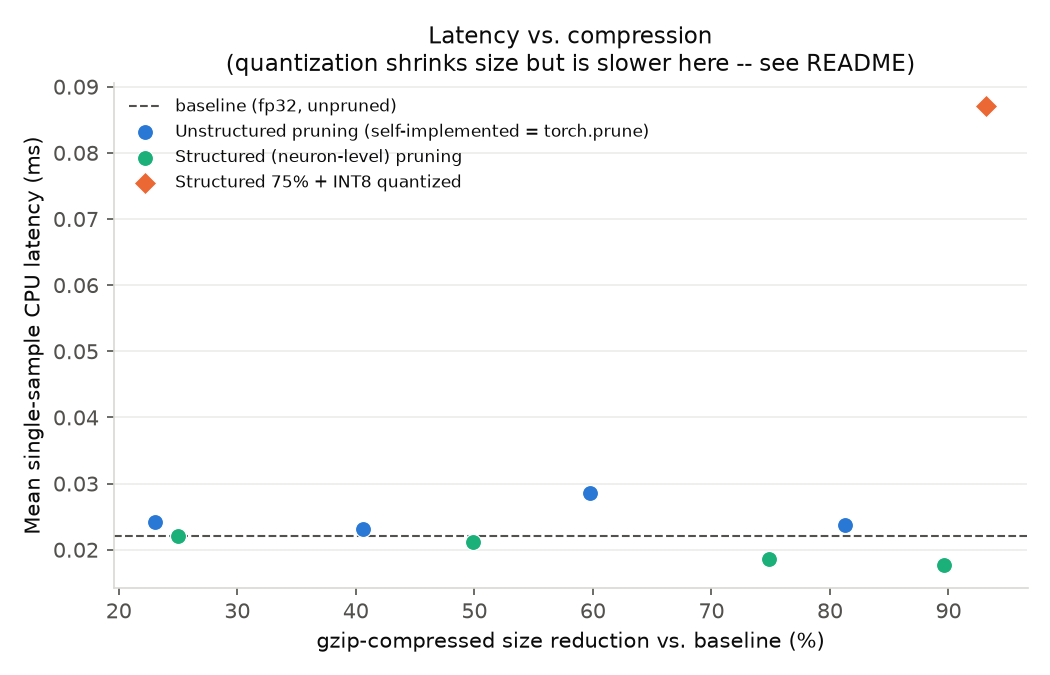
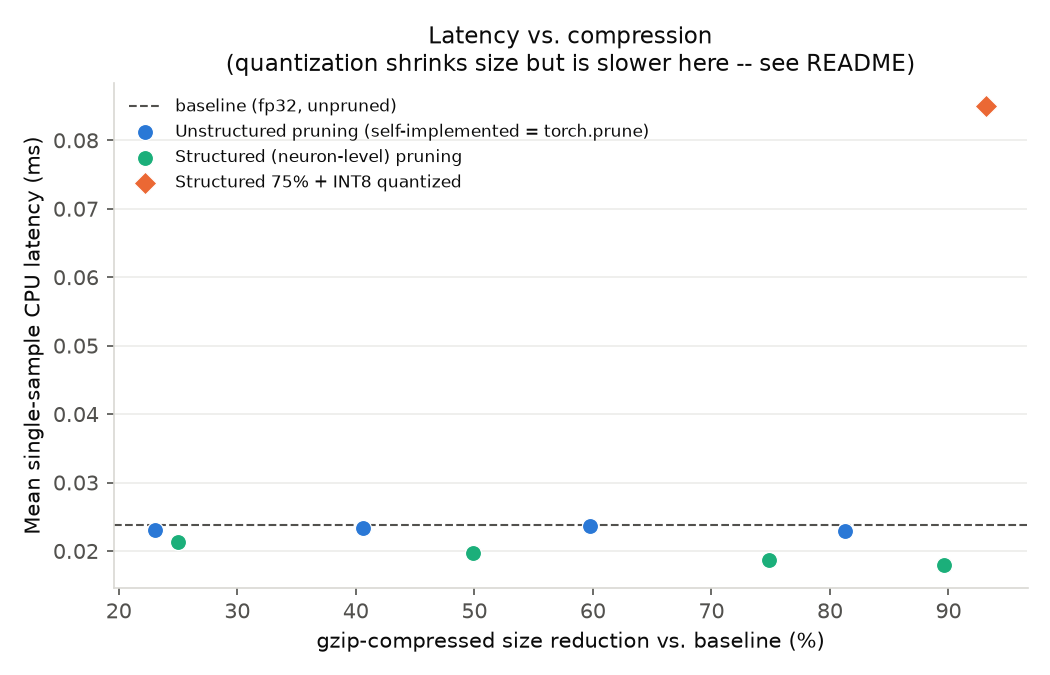
update changes

diff --git a/api/main.py b/api/main.py
@@ -12,9 +12,32 @@ reloading it on every call would make this unusably slow. Both come from
 the shared model/clip_features.py and model/classifier_architecture.py
 modules used at training time, so a live request produces embeddings in
 exactly the same space the classifier was trained on.
+
+Which classifier checkpoint gets served is configurable via env vars, so
+this same API can serve either the original trained head (the default,
+unchanged behavior) or one of the pruned/quantized checkpoints from the
+compression/ study:
+
+  CLASSIFIER_CHECKPOINT  - path to the checkpoint file
+                           (default: model/classifier_head.pt)
+  CLASSIFIER_HIDDEN_DIM  - hidden_dim to build the head with, only used as
+                           a fallback for a PLAIN state_dict checkpoint
+                           (default: 128, matching the original head)
+  CLASSIFIER_QUANTIZED   - "true"/"false", only used as a fallback for a
+                           plain state_dict (default: false)
+  CLASSIFIER_VERSION_TAG - model_version tag prefix (default: joint_v2)
+
+A structured-pruning or quantized checkpoint from compression/ is saved as
+a self-describing {"state_dict", "hidden_dim", "quantized"} dict (see
+compression/common.py's load_checkpoint, which this mirrors), so for those
+CLASSIFIER_HIDDEN_DIM/CLASSIFIER_QUANTIZED are read automatically from the
+file itself and don't need to be set correctly by hand -- avoiding exactly
+on the v2-agentic-eval branch already taught this project to worry about.
 """
 import io
+import os
 from contextlib import asynccontextmanager
+from pathlib import Path
 
 import torch
 from fastapi import FastAPI, File, Form, UploadFile, HTTPException
@@ -28,7 +51,53 @@ from model.clip_features import load_clip_model, embed_batch, build_joint_featur
 from model.classifier_architecture import LABELS, MLPHead, HIDDEN_DIM, DROPOUT
 from model.model_version import get_model_version
 
+CLASSIFIER_CHECKPOINT = os.environ.get("CLASSIFIER_CHECKPOINT", "model/classifier_head.pt")
+CLASSIFIER_HIDDEN_DIM_FALLBACK = int(os.environ.get("CLASSIFIER_HIDDEN_DIM", str(HIDDEN_DIM)))
+CLASSIFIER_QUANTIZED_FALLBACK = os.environ.get("CLASSIFIER_QUANTIZED", "false").lower() == "true"
+CLASSIFIER_VERSION_TAG = os.environ.get("CLASSIFIER_VERSION_TAG", "joint_v2")
+
 ml_state: dict = {}
+
+
+def _pick_quantized_engine(preferred: str | None = None) -> str:
+    supported = torch.backends.quantized.supported_engines
+    for candidate in ([preferred] if preferred else []) + ["fbgemm", "qnnpack"]:
+        if candidate in supported:
+            return candidate
+    raise RuntimeError(f"no usable quantized engine found; supported={supported}")
+
+
+def load_classifier(checkpoint_path: str) -> torch.nn.Module:
+    """Builds and loads the classifier head for CLASSIFIER_CHECKPOINT.
+    Handles both checkpoint shapes used across this project: a plain
+    state_dict (the original trained head, and every unstructured-pruned
+    checkpoint from compression/ -- all fixed hidden_dim=128), and the
+    self-describing {"state_dict", "hidden_dim", "quantized"} dict that
+    structured-pruning and quantization checkpoints save, needed because
+    those change the model's actual shape or require converting the module
+    to its quantized form BEFORE load_state_dict will accept the packed
+    int8 weights.
+    """
+    loaded = torch.load(checkpoint_path, map_location="cpu")
+
+    if isinstance(loaded, dict) and "state_dict" in loaded and "hidden_dim" in loaded:
+        hidden_dim = loaded["hidden_dim"]
+        quantized = loaded.get("quantized", False)
+        engine = loaded.get("quantization_engine")
+        state_dict = loaded["state_dict"]
+    else:
+        hidden_dim = CLASSIFIER_HIDDEN_DIM_FALLBACK
+        quantized = CLASSIFIER_QUANTIZED_FALLBACK
+        engine = None
+        state_dict = loaded
+
+    classifier = MLPHead(input_dim=1024, hidden_dim=hidden_dim, n_classes=len(LABELS), dropout=DROPOUT)
+    if quantized:
+        torch.backends.quantized.engine = _pick_quantized_engine(engine)
+        classifier = torch.quantization.quantize_dynamic(classifier, {torch.nn.Linear}, dtype=torch.qint8)
+    classifier.load_state_dict(state_dict)
+    classifier.eval()
+    return classifier
 
 
 @asynccontextmanager
@@ -40,14 +109,11 @@ async def lifespan(app: FastAPI):
     ml_state["clip_processor"] = processor
     ml_state["device"] = device
 
-    classifier = MLPHead(input_dim=1024, hidden_dim=HIDDEN_DIM, n_classes=len(LABELS), dropout=DROPOUT)
-    state_dict = torch.load("model/classifier_head.pt", map_location="cpu")
-    classifier.load_state_dict(state_dict)
-    classifier.eval()
-    ml_state["classifier"] = classifier
-    ml_state["model_version"] = get_model_version()
+    ml_state["classifier"] = load_classifier(CLASSIFIER_CHECKPOINT)
+    ml_state["model_version"] = get_model_version(Path(CLASSIFIER_CHECKPOINT), CLASSIFIER_VERSION_TAG)
 
-    print(f"loaded CLIP on {device}, classifier head, model_version={ml_state['model_version']}")
+    print(f"loaded CLIP on {device}, classifier head from {CLASSIFIER_CHECKPOINT}, "
+          f"model_version={ml_state['model_version']}")
     yield
     ml_state.clear()
 

diff --git a/compression/common.py b/compression/common.py
@@ -58,17 +58,27 @@ def build_head(input_dim: int = 1024, hidden_dim: int = HIDDEN_DIM) -> MLPHead:
     return MLPHead(input_dim=input_dim, hidden_dim=hidden_dim, n_classes=len(LABELS), dropout=DROPOUT)
 
 
-def load_checkpoint(path) -> MLPHead:
-    """Loads either checkpoint format used in this study: a plain state_dict
+def load_checkpoint(path) -> torch.nn.Module:
+    """Loads any checkpoint format used in this study: a plain state_dict
     (self-implemented and torch.prune checkpoints, which keep the baseline's
-    fixed hidden_dim=128 shape) or the {"state_dict", "hidden_dim"} dict
-    structured_pruning.py saves (since a structurally-pruned model has a
-    non-default hidden_dim that must be known to reconstruct the module
-    before load_state_dict can work).
+    fixed hidden_dim=128 shape) or the self-describing {"state_dict",
+    "hidden_dim", "quantized"} dict that structured_pruning.py and
+    quantize_int8.py save -- needed because a structurally-pruned model has
+    a non-default hidden_dim, and a quantized model must be converted with
+    quantize_dynamic() BEFORE load_state_dict can work (its state_dict holds
+    packed int8 params that only fit a module already in quantized form).
+    api/main.py uses the identical logic so the API and this study's own
+    scripts can never disagree about how to open the same checkpoint file.
     """
     obj = torch.load(path, map_location="cpu")
     if isinstance(obj, dict) and "state_dict" in obj and "hidden_dim" in obj:
         model = build_head(hidden_dim=obj["hidden_dim"])
+        if obj.get("quantized"):
+            engine = obj.get("quantization_engine", "qnnpack")
+            if engine not in torch.backends.quantized.supported_engines:
+                engine = torch.backends.quantized.supported_engines[0]
+            torch.backends.quantized.engine = engine
+            model = torch.quantization.quantize_dynamic(model, {torch.nn.Linear}, dtype=torch.qint8)
         model.load_state_dict(obj["state_dict"])
     else:
         model = build_head()

diff --git a/compression/quantize_int8.py b/compression/quantize_int8.py
@@ -87,7 +87,19 @@ def main():
     size_reduction = 1 - quant_row["raw_size_bytes"] / float_row["raw_size_bytes"]
     print(f"raw size reduction from quantization alone: {size_reduction:.2%}")
 
-    torch.save(quantized_model.state_dict(), CHECKPOINT_DIR / "best_int8_quantized.pt")
+    # self-describing checkpoint, same convention as structured_pruning.py's
+    # {"state_dict", "hidden_dim"} format plus "quantized"/"quantization_engine"
+    # -- so anything loading this checkpoint (the API included) can
+    # reconstruct the right module shape and quantize it BEFORE calling
+    # load_state_dict, without needing to be told out-of-band. A plain
+    # state_dict alone can't self-describe "this needs hidden_dim=32 and a
+    # quantize_dynamic() call before loading", and getting that wrong from a
+    # manually-set config value is exactly the kind of silent failure mode
+    torch.save(
+        {"state_dict": quantized_model.state_dict(), "hidden_dim": float_model.net[0].out_features,
+         "quantized": True, "quantization_engine": engine},
+        CHECKPOINT_DIR / "best_int8_quantized.pt",
+    )
 
     save_json(
         {"selected_source": selection, "float_row": float_row, "quantized_row": quant_row,

diff --git a/model/model_version.py b/model/model_version.py
@@ -13,11 +13,18 @@ WEIGHTS_PATH = Path("model/classifier_head.pt")
 VERSION_TAG = "joint_v2"
 
 
-def get_model_version() -> str:
-    if not WEIGHTS_PATH.exists():
-        raise FileNotFoundError(f"{WEIGHTS_PATH} not found -- train the classifier first")
-    digest = hashlib.sha256(WEIGHTS_PATH.read_bytes()).hexdigest()[:8]
-    return f"{VERSION_TAG}_{digest}"
+def get_model_version(weights_path: Path = WEIGHTS_PATH, version_tag: str = VERSION_TAG) -> str:
+    """weights_path/version_tag default to the original joint classifier so
+    every existing caller is unaffected. api/main.py passes its actual
+    CLASSIFIER_CHECKPOINT/tag here when serving a compression-study
+    checkpoint, so model_version keeps tracking the real weights in use --
+    the same discipline db/README.md documents for the rule-baseline arm:
+    a version string must be tied to actual weight content, never assumed.
+    """
+    if not weights_path.exists():
+        raise FileNotFoundError(f"{weights_path} not found -- train the classifier first")
+    digest = hashlib.sha256(weights_path.read_bytes()).hexdigest()[:8]
+    return f"{version_tag}_{digest}"
 
 
 if __name__ == "__main__":
